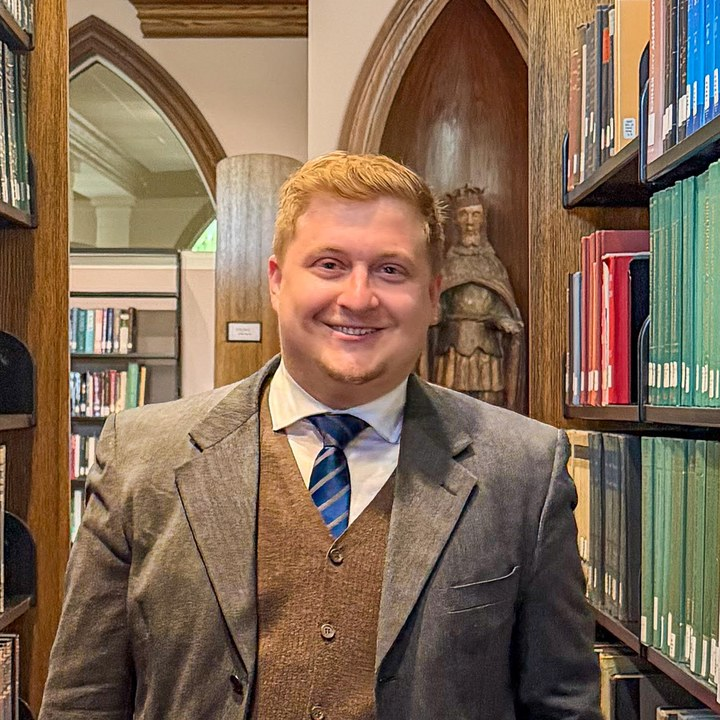
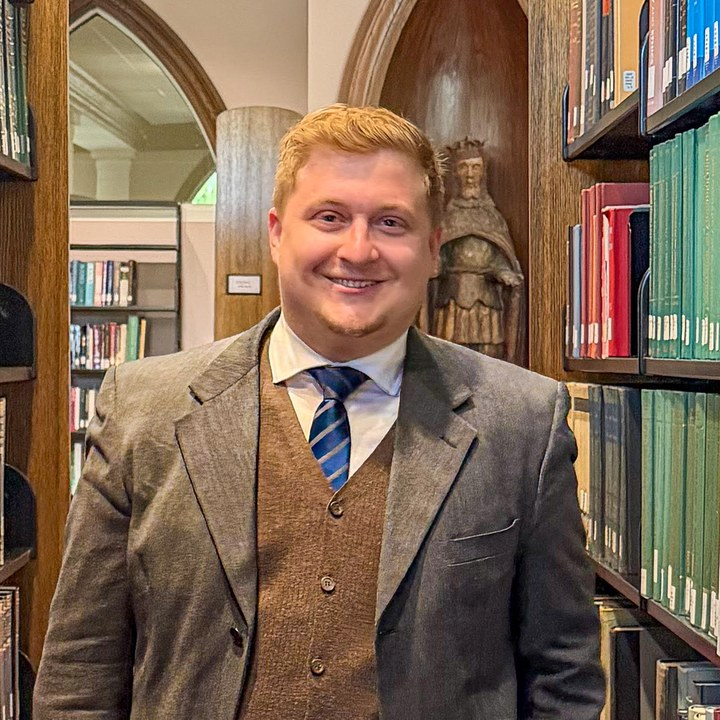
Encounters: visible labels on three new tiles; hero figure shifted up

diff --git a/index.html b/index.html
@@ -491,13 +491,13 @@
         <section style="padding:3.5rem 1.5rem"><div class="section-container"><div class="home-preview-grid reverse"><div class="preview-content"><p class="section-label">Featured Book</p><h2 class="section-title">Faith in Crisis</h2><p class="book-subtitle">Critical Dialogues in Catholic Traditionalism, Church Authority, and Reform</p><div class="divider divider-left"></div><p>Featuring <strong>Robert Cardinal Sarah</strong>, <strong>Mike Aquilina</strong>, <strong>Jimmy Akin</strong>, <strong>Timothy O'Malley</strong>, and 30+ contributors, with a foreword by <strong>Rocco Buttiglione</strong> and an imprimatur from <strong>Archbishop William E. Lori</strong>.</p><div class="badge-row"><span class="badge">40 Chapters</span><span class="badge">30+ Contributors</span><span class="badge">Imprimatur</span></div><div class="btn-row"><a href="javascript:void(0)" class="btn btn-primary" onclick="showPage('book')">Learn More →</a><a href="https://amzn.to/3KY25Ng" class="btn btn-outline" target="_blank">Amazon</a></div></div><div class="preview-image"><img src="book-faith-in-crisis.jpg" alt="Faith in Crisis" class="img-frame" loading="lazy"></div></div></div></section><section style="padding:3.75rem 1.5rem;background:linear-gradient(160deg,#2A1418,#3B1F26)"><div class="section-container"><div class="section-header"><p class="section-label" style="color:var(--gold)">New &amp; Forthcoming</p><h2 class="section-title" style="color:#fff">Two New Books</h2><div class="divider"></div><p style="font-family:'Libre Baskerville',serif;font-size:.92rem;color:rgba(255,255,255,.72);max-width:620px;margin:1.1rem auto 0;line-height:1.7">A new chapbook on indefectibility and dissent, and the first English edition of Yves Congar’s answer to the Lefebvre crisis — both from En Route Books.</p></div><div style="display:grid;grid-template-columns:repeat(auto-fit,minmax(320px,1fr));gap:1.5rem;max-width:900px;margin:2rem auto 0"><div style="background:rgba(255,255,255,.045);border:1px solid rgba(201,169,98,.28);border-radius:12px;padding:1.5rem;display:flex;gap:1.25rem;align-items:flex-start"><img src="book-to-his-face.jpg" onclick="openBookModal('to-his-face')" alt="To His Face" style="width:108px;height:auto;border-radius:5px;box-shadow:0 14px 34px -10px rgba(0,0,0,.65);cursor:pointer;flex-shrink:0"><div style="min-width:0"><span style="display:inline-block;font-family:'Lato',sans-serif;font-size:.58rem;letter-spacing:.12em;text-transform:uppercase;font-weight:700;color:#1E2A3A;background:var(--gold);padding:.2rem .55rem;border-radius:20px">New · 2026</span><h3 style="font-family:'Cormorant Garamond',serif;color:#fff;font-size:1.55rem;line-height:1.1;margin:.5rem 0 .15rem">To His Face</h3><p style="font-family:'Cormorant Garamond',serif;font-style:italic;color:var(--gold);font-size:1.02rem;margin:0 0 .55rem">Indefectibility &amp; the Problem of Dissent</p><p style="font-family:'Lato',sans-serif;font-size:.72rem;color:rgba(255,255,255,.72);line-height:1.55;margin:0 0 .95rem">Andrew Likoudis · Foreword by Robert Fastiggi · Afterword by Emmett O'Regan</p><a href="javascript:void(0)" onclick="openBookModal('to-his-face')" class="btn btn-gold" style="font-size:.68rem;padding:.5rem 1.05rem">Learn More →</a></div></div><div style="background:rgba(255,255,255,.045);border:1px solid rgba(201,169,98,.28);border-radius:12px;padding:1.5rem;display:flex;gap:1.25rem;align-items:flex-start"><img src="book-congar-challenge.jpg" onclick="openBookModal('challenge-to-the-church')" alt="Challenge to the Church" style="width:108px;height:auto;border-radius:5px;box-shadow:0 14px 34px -10px rgba(0,0,0,.65);cursor:pointer;flex-shrink:0"><div style="min-width:0"><span style="display:inline-block;font-family:'Lato',sans-serif;font-size:.58rem;letter-spacing:.12em;text-transform:uppercase;font-weight:700;color:#1E2A3A;background:var(--gold);padding:.2rem .55rem;border-radius:20px">50th Anniversary Edition</span><h3 style="font-family:'Cormorant Garamond',serif;color:#fff;font-size:1.55rem;line-height:1.1;margin:.5rem 0 .15rem">Challenge to the Church</h3><p style="font-family:'Cormorant Garamond',serif;font-style:italic;color:var(--gold);font-size:1.02rem;margin:0 0 .55rem">The Case of Archbishop Lefebvre</p><p style="font-family:'Lato',sans-serif;font-size:.72rem;color:rgba(255,255,255,.72);line-height:1.55;margin:0 0 .95rem">Yves Congar, OP · Foreword by Larry Chapp · Trans. Paul Inwood · Edited &amp; introduced by Andrew Likoudis</p><a href="javascript:void(0)" onclick="openBookModal('challenge-to-the-church')" class="btn btn-gold" style="font-size:.68rem;padding:.5rem 1.05rem">Learn More →</a></div></div></div></div></section>
         <section style="padding:3.5rem 1.5rem"><div class="section-container"><div class="section-header"><h2 class="section-title">Published In</h2><div class="divider"></div></div><div class="pub-grid-5"><img src="logo-ncr.png" alt="National Catholic Register" style="height:38px;transition:transform .3s" onmouseover="this.style.transform='scale(1.05)'" onmouseout="this.style.transform='scale(1)'" loading="lazy"><img src="logo-wpi.png" alt="Where Peter Is" style="height:44px;transition:transform .3s" onmouseover="this.style.transform='scale(1.05)'" onmouseout="this.style.transform='scale(1)'" loading="lazy"><img src="logo-ewtn.png" alt="EWTN Global Catholic Network" style="height:38px;transition:transform .3s" onmouseover="this.style.transform='scale(1.05)'" onmouseout="this.style.transform='scale(1)'" loading="lazy"><img src="logo-philosophynow.png" alt="Philosophy Now" style="width:44px;height:44px;border-radius:8px;object-fit:cover;transition:transform .3s" onmouseover="this.style.transform='scale(1.05)'" onmouseout="this.style.transform='scale(1)'" loading="lazy"><img src="logo-catholic-review.png" alt="Catholic Review" style="height:44px;transition:transform .3s" onmouseover="this.style.transform='scale(1.05)'" onmouseout="this.style.transform='scale(1)'" loading="lazy"><img src="logo-nor-named.png" alt="The New Oxford Review" style="height:38px;transition:transform .3s" onmouseover="this.style.transform='scale(1.05)'" onmouseout="this.style.transform='scale(1)'" loading="lazy"><img src="logo-patheos.png" alt="Patheos" style="height:38px;transition:transform .3s" onmouseover="this.style.transform='scale(1.05)'" onmouseout="this.style.transform='scale(1)'" loading="lazy"><img src="logo-faf-named.png" alt="Fellowship & Fairydust" style="height:44px;transition:transform .3s" onmouseover="this.style.transform='scale(1.05)'" onmouseout="this.style.transform='scale(1)'" loading="lazy"><img src="logo-cwn-named.png" alt="Catholic World News" style="height:40px;transition:transform .3s" onmouseover="this.style.transform='scale(1.05)'" onmouseout="this.style.transform='scale(1)'" loading="lazy"></div><p style="font-family:'Lato',sans-serif;font-size:.7rem;color:var(--text-light);text-align:center;margin:1.25rem 0 .75rem;letter-spacing:.05em;text-transform:uppercase"><em>Also featured at</em></p><div style="display:flex;flex-wrap:wrap;justify-content:center;align-items:center;gap:2rem;max-width:700px;margin:0 auto 1.5rem"><img src="logo-catholic-culture.png" alt="Catholic Culture" style="width:44px;height:44px;border-radius:8px;object-fit:cover;transition:transform .3s" onmouseover="this.style.transform='scale(1.05)'" onmouseout="this.style.transform='scale(1)'" loading="lazy"><img src="logo-evangelization-culture.png" alt="Evangelization & Culture" style="height:38px;transition:transform .3s" onmouseover="this.style.transform='scale(1.05)'" onmouseout="this.style.transform='scale(1)'" loading="lazy"><div style="height:48px;width:77px;overflow:hidden;border-radius:6px;display:flex;align-items:center;justify-content:center;flex-shrink:0"><img src="logo-ce.jpeg" alt="Catholic Exchange" style="width:44px;height:44px;border-radius:8px;object-fit:cover;transition:transform .3s" onmouseover="this.style.transform='scale(1.05)'" onmouseout="this.style.transform='scale(1)'" loading="lazy"></div></div></div><div style="width:60px;height:1px;background:linear-gradient(90deg,transparent,var(--gold),transparent);margin:1.5rem auto"></div><div class="featured-articles"><h3>Featured Articles</h3><div class="article-list-preview"><a href="https://wherepeteris.com/the-case-for-standing-to-receive-communion/" target="_blank" class="article-preview-item"><span class="article-pub">WPI</span><span class="article-title">The Case for Standing to Receive Communion</span><span class="article-date">02/2026</span></a><a href="https://wherepeteris.com/in-the-footsteps-of-francis-ten-lines-of-continuity-in-leo-xivs-church/" target="_blank" class="article-preview-item marquee"><span class="article-pub">WPI</span><span class="article-title">In the Footsteps of Francis: Ten Lines of Continuity in Leo XIV's Church<span class="article-desc">An analysis of how Pope Leo XIV has institutionally consolidated the reforms of his predecessor, tracing ten lines of continuity from Evangelii Gaudium to the governance of the new pontificate.</span></span><span class="article-date">02/2026</span></a><a href="https://www.ncregister.com/news/organ-donation-assisted-suicide-ethics-medical-malpractice" target="_blank" class="article-preview-item"><span class="article-pub">NCR</span><span class="article-title">Ethicists Warn About the Dangers of Linking Assisted Suicide to Organ Donation</span><span class="article-date">01/2026</span></a><a href="https://wherepeteris.com/after-traditionis-custodes-archbishop-cordileone-and-liturgical-renewal/" target="_blank" class="article-preview-item"><span class="article-pub">WPI</span><span class="article-title">After Traditionis Custodes: Exclusive Interview with Abp. Cordileone</span><span class="article-date">11/2025</span></a><a href="https://www.ncregister.com/news/neuralink-vs-imago-dei" target="_blank" class="article-preview-item"><span class="article-pub">NCR</span><span class="article-title">'Neuralink' vs. Imago Dei: Catholic Anthropology and AI</span><span class="article-date">09/2025</span></a><a href="https://philosophynow.org/issues/165/A_Critique_of_Pure_Atheism" target="_blank" class="article-preview-item"><span class="article-pub">Philosophy Now</span><span class="article-title">A Critique of Pure Atheism</span><span class="article-date">12/2024</span></a></div></div><div class="center-cta"><a href="javascript:void(0)" class="btn btn-primary" onclick="showPage('writing')">Full Writing Portfolio →</a></div><div style="max-width:620px;margin:2rem auto 0;display:flex;align-items:center;gap:.85rem;padding:1rem 1.25rem;background:rgba(184,134,11,.04);border-left:3px solid var(--gold);border-radius:0 6px 6px 0"><img src="endorser-matthew-levering.jpg" alt="Matthew Levering, Ph.D." style="width:64px;height:64px;border-radius:8px;object-fit:cover;flex-shrink:0;border:2px solid rgba(201,169,98,.3)"><div><blockquote style="font-family:'Cormorant Garamond',serif;font-size:.88rem;font-style:italic;color:var(--text);line-height:1.45;margin:0">&ldquo;Who is the Orestes Brownson of our era? Working at the increasingly fluid intersection of theology and journalism, Andrew Likoudis has distinctively construed and defended Pope Francis&rsquo;s vision, including as it is being carried forward by Pope Leo XIV.&rdquo;</blockquote><p style="font-family:'Lato',sans-serif;font-size:.72rem;font-weight:700;color:var(--burgundy);margin-top:.3rem;letter-spacing:.01em">Matthew Levering, Ph.D.</p><p style="font-family:'Lato',sans-serif;font-size:.68rem;color:var(--text-light);margin-top:.1rem;letter-spacing:.01em;font-weight:600">James N. Jr. and Mary D. Perry Chair of Theology, Mundelein Seminary<br>Ordinary Member, Pontifical Academy of Saint Thomas Aquinas</p></div></div></section>
         <section style="padding:3.5rem 1.5rem"><div class="section-container" style="max-width:760px;text-align:center"><div class="section-header"><h2 class="section-title">Invite Andrew to Speak</h2><div class="divider"></div></div><p style="color:var(--text-light);font-size:1rem;line-height:1.75;max-width:610px;margin:0 auto 1.6rem">Andrew speaks at parishes, conferences, and universities on ecumenism, Church authority, ressourcement theology, and the path to Christian unity — from parish formation evenings to academic keynotes.</p><div style="display:grid;grid-template-columns:repeat(auto-fit,minmax(195px,1fr));gap:1.4rem;margin:2rem auto 2.2rem;text-align:left;max-width:730px"><div><p style="font-family:'Lato',sans-serif;font-size:.76rem;font-weight:700;color:var(--burgundy);margin:0 0 .35rem;text-transform:uppercase;letter-spacing:.04em">Parish Formation</p><p style="font-family:'Lato',sans-serif;font-size:.82rem;color:var(--text-light);line-height:1.55;margin:0">Adult-education evenings and parish missions on the liturgy and the reform, discerning apparition and private-revelation claims, and understanding the traditionalist moment with clarity and charity.</p></div><div><p style="font-family:'Lato',sans-serif;font-size:.76rem;font-weight:700;color:var(--burgundy);margin:0 0 .35rem;text-transform:uppercase;letter-spacing:.04em">Conferences &amp; Keynotes</p><p style="font-family:'Lato',sans-serif;font-size:.82rem;color:var(--text-light);line-height:1.55;margin:0">Plenary and breakout talks on East-West ecumenism and the road to reunion, the crisis of authority behind the traditionalist turn, and clericalism in the contemporary Church.</p></div><div><p style="font-family:'Lato',sans-serif;font-size:.76rem;font-weight:700;color:var(--burgundy);margin:0 0 .35rem;text-transform:uppercase;letter-spacing:.04em">Universities &amp; Seminaries</p><p style="font-family:'Lato',sans-serif;font-size:.82rem;color:var(--text-light);line-height:1.55;margin:0">Lectures and seminars on ressourcement theology and the nature&ndash;grace debate, the history of the liturgical reform, Catholic anthropology in an age of AI, and the ecclesiology of the schism.</p></div></div><a href="javascript:void(0)" class="btn btn-primary" onclick="showPage('speaking')">Invite Andrew to Speak →</a></div></section><section class="alt-bg" style="padding:3.5rem 1.5rem"><div class="section-container"><div class="section-header"><h2 class="section-title">Consulting</h2><div class="divider"></div></div><div class="services-preview-grid"><div class="service-preview-card"><h3>Publishing</h3><p>Manuscript development &amp; editorial review</p><a href="javascript:void(0)" onclick="showPage('work-with-me')" style="font-family:'Lato',sans-serif;font-size:.72rem;color:var(--burgundy);font-weight:600;text-decoration:none;cursor:pointer;margin-top:.5rem;display:inline-block">Explore →</a></div><div class="service-preview-card"><h3>Nonprofit Strategy</h3><p>Organizational development &amp; fundraising</p><a href="javascript:void(0)" onclick="showPage('work-with-me')" style="font-family:'Lato',sans-serif;font-size:.72rem;color:var(--burgundy);font-weight:600;text-decoration:none;cursor:pointer;margin-top:.5rem;display:inline-block">Explore →</a></div><div class="service-preview-card"><h3>Research & Communications</h3><p>Analysis, media coverage &amp; editorial strategy</p><a href="javascript:void(0)" onclick="showPage('work-with-me')" style="font-family:'Lato',sans-serif;font-size:.72rem;color:var(--burgundy);font-weight:600;text-decoration:none;cursor:pointer;margin-top:.5rem;display:inline-block">Explore →</a></div></div><div class="center-cta"><a href="javascript:void(0)" class="btn btn-primary" onclick="showPage('work-with-me')">View All Services →</a></div><div style="max-width:560px;margin:2rem auto 0;display:flex;align-items:center;gap:.85rem;padding:1rem 1.25rem;background:rgba(184,134,11,.04);border-left:3px solid var(--gold);border-radius:0 6px 6px 0"><img src="endorser-rick-little.jpg" alt="Rick Little" style="width:64px;height:64px;border-radius:50%;object-fit:cover;object-position:center top;flex-shrink:0;border:2px solid rgba(201,169,98,.3)"><div><blockquote style="font-family:'Cormorant Garamond',serif;font-size:.88rem;font-style:italic;color:var(--text);line-height:1.45;margin:0">&ldquo;Andrew was a thoughtful and dependable collaborator. He took initiative, engaged seriously with the work, and consistently delivered quality research and analysis.&rdquo;</blockquote><p style="font-family:'Lato',sans-serif;font-size:.72rem;font-weight:700;color:var(--burgundy);margin-top:.3rem;letter-spacing:.01em">Rick Little</p><p style="font-family:'Lato',sans-serif;font-size:.68rem;color:var(--text-light);margin-top:.1rem;letter-spacing:.01em;font-weight:600">Principal, Julep Consulting</p></div></div></div></section>
-        <section style="padding:3rem 1.5rem;background:#fff"><div class="section-container"><div class="section-header"><h2 class="section-title" style="text-align:center">Notable Encounters</h2><div class="divider"></div></div><div class="encounters-grid" style="display:grid;grid-template-columns:repeat(3,1fr);gap:1.25rem;max-width:860px;margin:1.5rem auto 0"><div style="overflow:hidden;border-radius:6px;box-shadow:0 4px 15px -5px rgba(0,0,0,.12);cursor:zoom-in" onclick="document.getElementById('lightboxImg').src='gallery-metropolitan-tikhon.jpg';document.getElementById('lightboxCaption').innerHTML='<strong>Metropolitan Tikhon</strong><span class=\'caption-context\'>Primate, Orthodox Church in America</span>';document.getElementById('galleryLightbox').classList.add('active');document.body.style.overflow='hidden'"><img src="gallery-metropolitan-tikhon.jpg" alt="With Metropolitan Tikhon" style="width:100%;height:240px;object-fit:cover;object-position:center 18%;display:block;transition:transform .3s" onmouseover="this.style.transform='scale(1.05)'" onmouseout="this.style.transform='scale(1)'"></div><div style="overflow:hidden;border-radius:6px;box-shadow:0 4px 15px -5px rgba(0,0,0,.12);cursor:zoom-in" onclick="document.getElementById('lightboxImg').src='gallery-caccia-pace.jpg';document.getElementById('lightboxCaption').innerHTML='<strong>Archbishops Caccia &amp; Pace</strong><span class=\'caption-context\'>Apostolic Nuncio &middot; Secretary, Dicastery for Promoting Christian Unity</span>';document.getElementById('galleryLightbox').classList.add('active');document.body.style.overflow='hidden'"><img src="gallery-caccia-pace.jpg" alt="With Archbishops Caccia &amp; Pace" style="width:100%;height:240px;object-fit:cover;object-position:center 15%;display:block;transition:transform .3s" onmouseover="this.style.transform='scale(1.05)'" onmouseout="this.style.transform='scale(1)'"></div>
+        <section style="padding:3rem 1.5rem;background:#fff"><div class="section-container"><div class="section-header"><h2 class="section-title" style="text-align:center">Notable Encounters</h2><div class="divider"></div></div><div class="encounters-grid" style="display:grid;grid-template-columns:repeat(3,1fr);gap:1.25rem;max-width:860px;margin:1.5rem auto 0"><div style="overflow:hidden;border-radius:6px;box-shadow:0 4px 15px -5px rgba(0,0,0,.12);cursor:zoom-in" onclick="document.getElementById('lightboxImg').src='gallery-metropolitan-tikhon.jpg';document.getElementById('lightboxCaption').innerHTML='<strong>Metropolitan Tikhon</strong><span class=\'caption-context\'>Primate, Orthodox Church in America</span>';document.getElementById('galleryLightbox').classList.add('active');document.body.style.overflow='hidden'"><img src="gallery-metropolitan-tikhon.jpg" alt="With Metropolitan Tikhon" style="width:100%;height:240px;object-fit:cover;object-position:center 18%;display:block;transition:transform .3s" onmouseover="this.style.transform='scale(1.05)'" onmouseout="this.style.transform='scale(1)'"><p style="font-family:'Lato',sans-serif;font-size:.68rem;color:var(--text-light);text-align:center;padding:.5rem .75rem;background:#fff;border-top:2px solid var(--gold);margin:0;line-height:1.4"><strong style="color:var(--text);font-size:.72rem;display:block">Metropolitan Tikhon</strong>Primate, Orthodox Church in America</p></div><div style="overflow:hidden;border-radius:6px;box-shadow:0 4px 15px -5px rgba(0,0,0,.12);cursor:zoom-in" onclick="document.getElementById('lightboxImg').src='gallery-caccia-pace.jpg';document.getElementById('lightboxCaption').innerHTML='<strong>Archbishops Caccia &amp; Pace</strong><span class=\'caption-context\'>Apostolic Nuncio &middot; Secretary, Dicastery for Promoting Christian Unity</span>';document.getElementById('galleryLightbox').classList.add('active');document.body.style.overflow='hidden'"><img src="gallery-caccia-pace.jpg" alt="With Archbishops Caccia &amp; Pace" style="width:100%;height:240px;object-fit:cover;object-position:center 15%;display:block;transition:transform .3s" onmouseover="this.style.transform='scale(1.05)'" onmouseout="this.style.transform='scale(1)'"><p style="font-family:'Lato',sans-serif;font-size:.68rem;color:var(--text-light);text-align:center;padding:.5rem .75rem;background:#fff;border-top:2px solid var(--gold);margin:0;line-height:1.4"><strong style="color:var(--text);font-size:.72rem;display:block">Archbishops Caccia &amp; Pace</strong>Apostolic Nuncio &middot; Dicastery for Promoting Christian Unity</p></div>
 <div style="overflow:hidden;border-radius:6px;box-shadow:0 4px 15px -5px rgba(0,0,0,.12);cursor:zoom-in" onclick="document.getElementById('lightboxImg').src='gallery-cardinal-roche.jpg';document.getElementById('lightboxCaption').innerHTML='<strong>Cardinal Arthur Roche</strong><span class=\'caption-context\'>Prefect, Dicastery for Divine Worship</span>';document.getElementById('galleryLightbox').classList.add('active');document.body.style.overflow='hidden'"><img src="gallery-cardinal-roche.jpg" alt="With Cardinal Arthur Roche" style="width:100%;height:240px;object-fit:cover;object-position:center 20%;display:block;transition:transform .3s" onmouseover="this.style.transform='scale(1.04)'" onmouseout="this.style.transform=''"><p style="font-family:'Lato',sans-serif;font-size:.68rem;color:var(--text-light);text-align:center;padding:.5rem .75rem;background:#fff;border-top:2px solid var(--gold);margin:0;line-height:1.4"><strong style="color:var(--text);font-size:.72rem;display:block">Cardinal Roche</strong>Prefect, Dicastery for Divine Worship</p></div>
 <div style="overflow:hidden;border-radius:6px;box-shadow:0 4px 15px -5px rgba(0,0,0,.12);cursor:zoom-in" onclick="document.getElementById('lightboxImg').src='gallery-cardinal-pierre.jpg';document.getElementById('lightboxCaption').innerHTML='<strong>Cardinal Christophe Pierre</strong><span class=\'caption-context\'>Apostolic Nuncio to the United States</span>';document.getElementById('galleryLightbox').classList.add('active');document.body.style.overflow='hidden'"><img src="gallery-cardinal-pierre.jpg" alt="With Cardinal Christophe Pierre" style="width:100%;height:240px;object-fit:cover;object-position:center 20%;display:block;transition:transform .3s" onmouseover="this.style.transform='scale(1.04)'" onmouseout="this.style.transform=''"><p style="font-family:'Lato',sans-serif;font-size:.68rem;color:var(--text-light);text-align:center;padding:.5rem .75rem;background:#fff;border-top:2px solid var(--gold);margin:0;line-height:1.4"><strong style="color:var(--text);font-size:.72rem;display:block">Cardinal Pierre</strong>Apostolic Nuncio to the US</p></div>
 <div style="overflow:hidden;border-radius:6px;box-shadow:0 4px 15px -5px rgba(0,0,0,.12);cursor:zoom-in" onclick="document.getElementById('lightboxImg').src='gallery-cardinal-sarah.jpg';document.getElementById('lightboxCaption').innerHTML='<strong>Cardinal Robert Sarah</strong><span class=\'caption-context\'>Prefect Emeritus, Dicastery for Divine Worship</span>';document.getElementById('galleryLightbox').classList.add('active');document.body.style.overflow='hidden'"><img src="gallery-cardinal-sarah.jpg" alt="With Cardinal Robert Sarah" style="width:100%;height:240px;object-fit:cover;object-position:center 20%;display:block;transition:transform .3s" onmouseover="this.style.transform='scale(1.04)'" onmouseout="this.style.transform=''"><p style="font-family:'Lato',sans-serif;font-size:.68rem;color:var(--text-light);text-align:center;padding:.5rem .75rem;background:#fff;border-top:2px solid var(--gold);margin:0;line-height:1.4"><strong style="color:var(--text);font-size:.72rem;display:block">Cardinal Sarah</strong>Prefect Emeritus, Dicastery for Divine Worship</p></div>
 <div style="overflow:hidden;border-radius:6px;box-shadow:0 4px 15px -5px rgba(0,0,0,.12);cursor:zoom-in" onclick="document.getElementById('lightboxImg').src='gallery-usccb-coakley.jpg';document.getElementById('lightboxCaption').innerHTML='<strong>Archbishop Paul Coakley</strong><span class=\'caption-context\'>USCCB President</span>';document.getElementById('galleryLightbox').classList.add('active');document.body.style.overflow='hidden'"><img src="gallery-usccb-coakley.jpg" alt="With Archbishop Paul Coakley" style="width:100%;height:240px;object-fit:cover;object-position:center top;display:block;transition:transform .3s" onmouseover="this.style.transform='scale(1.04)'" onmouseout="this.style.transform=''"><p style="font-family:'Lato',sans-serif;font-size:.68rem;color:var(--text-light);text-align:center;padding:.5rem .75rem;background:#fff;border-top:2px solid var(--gold);margin:0;line-height:1.4"><strong style="color:var(--text);font-size:.72rem;display:block">Archbishop Coakley</strong>USCCB President</p></div>
 <div style="overflow:hidden;border-radius:6px;box-shadow:0 4px 15px -5px rgba(0,0,0,.12);cursor:zoom-in" onclick="document.getElementById('lightboxImg').src='gallery-barron-2023.jpg';document.getElementById('lightboxCaption').innerHTML='<strong>Bishop Robert Barron</strong><span class=\'caption-context\'>Word on Fire</span>';document.getElementById('galleryLightbox').classList.add('active');document.body.style.overflow='hidden'"><img src="gallery-barron-2023.jpg" alt="With Bishop Robert Barron" style="width:100%;height:240px;object-fit:cover;object-position:center top;display:block;transition:transform .3s" onmouseover="this.style.transform='scale(1.04)'" onmouseout="this.style.transform=''"><p style="font-family:'Lato',sans-serif;font-size:.68rem;color:var(--text-light);text-align:center;padding:.5rem .75rem;background:#fff;border-top:2px solid var(--gold);margin:0;line-height:1.4"><strong style="color:var(--text);font-size:.72rem;display:block">Bishop Barron</strong>Word on Fire</p></div>
-<div style="overflow:hidden;border-radius:6px;box-shadow:0 4px 15px -5px rgba(0,0,0,.12);cursor:zoom-in" onclick="document.getElementById('lightboxImg').src='gallery-alice-hildebrand.jpg';document.getElementById('lightboxCaption').innerHTML='<strong>Alice von Hildebrand</strong><span class=\'caption-context\'>Philosopher &amp; Author</span>';document.getElementById('galleryLightbox').classList.add('active');document.body.style.overflow='hidden'"><img src="gallery-alice-hildebrand.jpg" alt="With Alice von Hildebrand" style="width:100%;height:240px;object-fit:cover;object-position:center top;display:block;transition:transform .3s" onmouseover="this.style.transform='scale(1.04)'" onmouseout="this.style.transform=''"><p style="font-family:'Lato',sans-serif;font-size:.68rem;color:var(--text-light);text-align:center;padding:.5rem .75rem;background:#fff;border-top:2px solid var(--gold);margin:0;line-height:1.4"><strong style="color:var(--text);font-size:.72rem;display:block">Alice von Hildebrand</strong>Philosopher & Author</p></div><div style="overflow:hidden;border-radius:6px;box-shadow:0 4px 15px -5px rgba(0,0,0,.12);cursor:zoom-in" onclick="document.getElementById('lightboxImg').src='gallery-omalley.jpg';document.getElementById('lightboxCaption').innerHTML='<strong>Cardinal Se&aacute;n O'Malley &amp; Bishop Anthony Vrame</strong><span class=\'caption-context\'>Orientale Lumen XXX, 2026</span>';document.getElementById('galleryLightbox').classList.add('active');document.body.style.overflow='hidden'"><img src="gallery-omalley.jpg" alt="With Cardinal Se&aacute;n O'Malley &amp; Bishop Anthony Vrame" style="width:100%;height:240px;object-fit:cover;object-position:center 22%;display:block;transition:transform .3s" onmouseover="this.style.transform='scale(1.05)'" onmouseout="this.style.transform='scale(1)'"></div>
+<div style="overflow:hidden;border-radius:6px;box-shadow:0 4px 15px -5px rgba(0,0,0,.12);cursor:zoom-in" onclick="document.getElementById('lightboxImg').src='gallery-alice-hildebrand.jpg';document.getElementById('lightboxCaption').innerHTML='<strong>Alice von Hildebrand</strong><span class=\'caption-context\'>Philosopher &amp; Author</span>';document.getElementById('galleryLightbox').classList.add('active');document.body.style.overflow='hidden'"><img src="gallery-alice-hildebrand.jpg" alt="With Alice von Hildebrand" style="width:100%;height:240px;object-fit:cover;object-position:center top;display:block;transition:transform .3s" onmouseover="this.style.transform='scale(1.04)'" onmouseout="this.style.transform=''"><p style="font-family:'Lato',sans-serif;font-size:.68rem;color:var(--text-light);text-align:center;padding:.5rem .75rem;background:#fff;border-top:2px solid var(--gold);margin:0;line-height:1.4"><strong style="color:var(--text);font-size:.72rem;display:block">Alice von Hildebrand</strong>Philosopher & Author</p></div><div style="overflow:hidden;border-radius:6px;box-shadow:0 4px 15px -5px rgba(0,0,0,.12);cursor:zoom-in" onclick="document.getElementById('lightboxImg').src='gallery-omalley.jpg';document.getElementById('lightboxCaption').innerHTML='<strong>Cardinal Se&aacute;n O'Malley &amp; Bishop Anthony Vrame</strong><span class=\'caption-context\'>Orientale Lumen XXX, 2026</span>';document.getElementById('galleryLightbox').classList.add('active');document.body.style.overflow='hidden'"><img src="gallery-omalley.jpg" alt="With Cardinal Se&aacute;n O'Malley &amp; Bishop Anthony Vrame" style="width:100%;height:240px;object-fit:cover;object-position:center 22%;display:block;transition:transform .3s" onmouseover="this.style.transform='scale(1.05)'" onmouseout="this.style.transform='scale(1)'"><p style="font-family:'Lato',sans-serif;font-size:.68rem;color:var(--text-light);text-align:center;padding:.5rem .75rem;background:#fff;border-top:2px solid var(--gold);margin:0;line-height:1.4"><strong style="color:var(--text);font-size:.72rem;display:block">Cardinal O'Malley &amp; Bishop Vrame</strong>Orientale Lumen XXX, 2026</p></div>
 </div></div></section>
         <section style="padding:2.5rem 1.5rem;background:linear-gradient(135deg,#1a1a2e,#16213e);text-align:center"><div style="max-width:500px;margin:0 auto"><p style="font-family:'Cormorant Garamond',serif;font-size:1.4rem;color:#fff;margin-bottom:.3rem">Tradition & Renewal</p><p style="font-family:'Lato',sans-serif;font-size:.8rem;color:rgba(255,255,255,.6);margin-bottom:1.25rem">Essays on faith, culture, and the Church — delivered to your inbox.</p><a href="https://traditionandrenewal.substack.com" target="_blank" style="display:inline-flex;align-items:center;gap:.6rem;background:#FF6719;color:#fff;padding:.75rem 1.5rem;border-radius:6px;font-family:'Lato',sans-serif;font-size:.8rem;font-weight:600;letter-spacing:.08em;text-transform:uppercase;text-decoration:none;transition:all .3s;box-shadow:0 4px 15px -5px rgba(255,103,25,.5)" onmouseover="this.style.transform='translateY(-2px)';this.style.boxShadow='0 8px 25px -5px rgba(255,103,25,.5)'" onmouseout="this.style.transform='';this.style.boxShadow='0 4px 15px -5px rgba(255,103,25,.5)'"><svg width="18" height="18" viewBox="0 0 24 24" fill="white" xmlns="http://www.w3.org/2000/svg"><path d="M22.539 8.242H1.46V5.406h21.08v2.836zM1.46 10.812V24L12 18.11 22.54 24V10.812H1.46zM22.54 0H1.46v2.836h21.08V0z"/></svg>Subscribe on Substack</a></div></section>
                 <section class="contact-cta-section"><div class="contact-cta-content"><h2>Let's Work Together</h2><p>Consulting, speaking, or editorial collaboration.</p><div class="contact-quick-links"><a href="mailto:alikoudis@likoudislegacy.com">✉ alikoudis@likoudislegacy.com</a></div><a href="javascript:void(0)" class="btn btn-primary" onclick="showPage('work-with-me');setTimeout(function(){document.getElementById('inquiry').scrollIntoView({behavior:'smooth'})},100)">Work With Me →</a></div></section>
